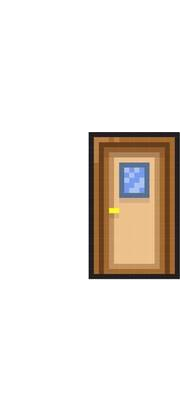
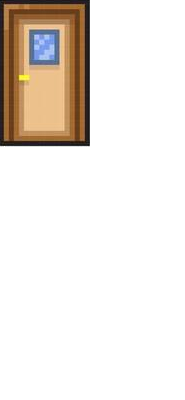
Make the main door open

diff --git a/navi/navi/src/map.cpp b/navi/navi/src/map.cpp
@@ -15,6 +15,7 @@ Map::Map()
 	RightBottomMax ={ 1440, 1340 };
 	mainDoor_Opened = LoadTexture("Graphics/doorOpened.png");
 	mainDoor_Closed = LoadTexture("Graphics/doorClosed.png");
+	DoorHitBox = { 450, (float)GetScreenHeight() / 2, (float)mainDoor_Opened.width/2, (float)mainDoor_Closed.height/2-55};
 }
 
 void Map::Draw()
@@ -25,7 +26,8 @@ void Map::Draw()
 	DrawRectangleRec(TopHitBox, WHITE);
 	DrawRectangleRec(BottomHitBox, WHITE);
 	
-	DrawRectangleRec(playerHitBox, RED);
+	DrawRectangleRec(playerHitBox, WHITE);
+	DrawRectangleRec(DoorHitBox, RED);
 	DrawTexture(Background, position.x-GetScreenWidth()/2, position.y-GetScreenHeight()/2, WHITE);
 	
 
@@ -88,5 +90,13 @@ void Map::Update()
 	{
 		playerHitBox.y += Character.speed; colliding[3] = true;
 	}
-	cout << LeftTopMax.x;
+	if (CheckCollisionRecs(DoorHitBox, playerHitBox))
+	{
+		DrawTexture(mainDoor_Opened, 450, (float)GetScreenHeight() / 2, WHITE);
+		DrawText("Press E to enter", 400, (float)GetScreenHeight()-25 , 25, RED);
+	}
+	else
+	{
+		DrawTexture(mainDoor_Closed, 450, (float)GetScreenHeight() / 2, WHITE);
+	}
 }
